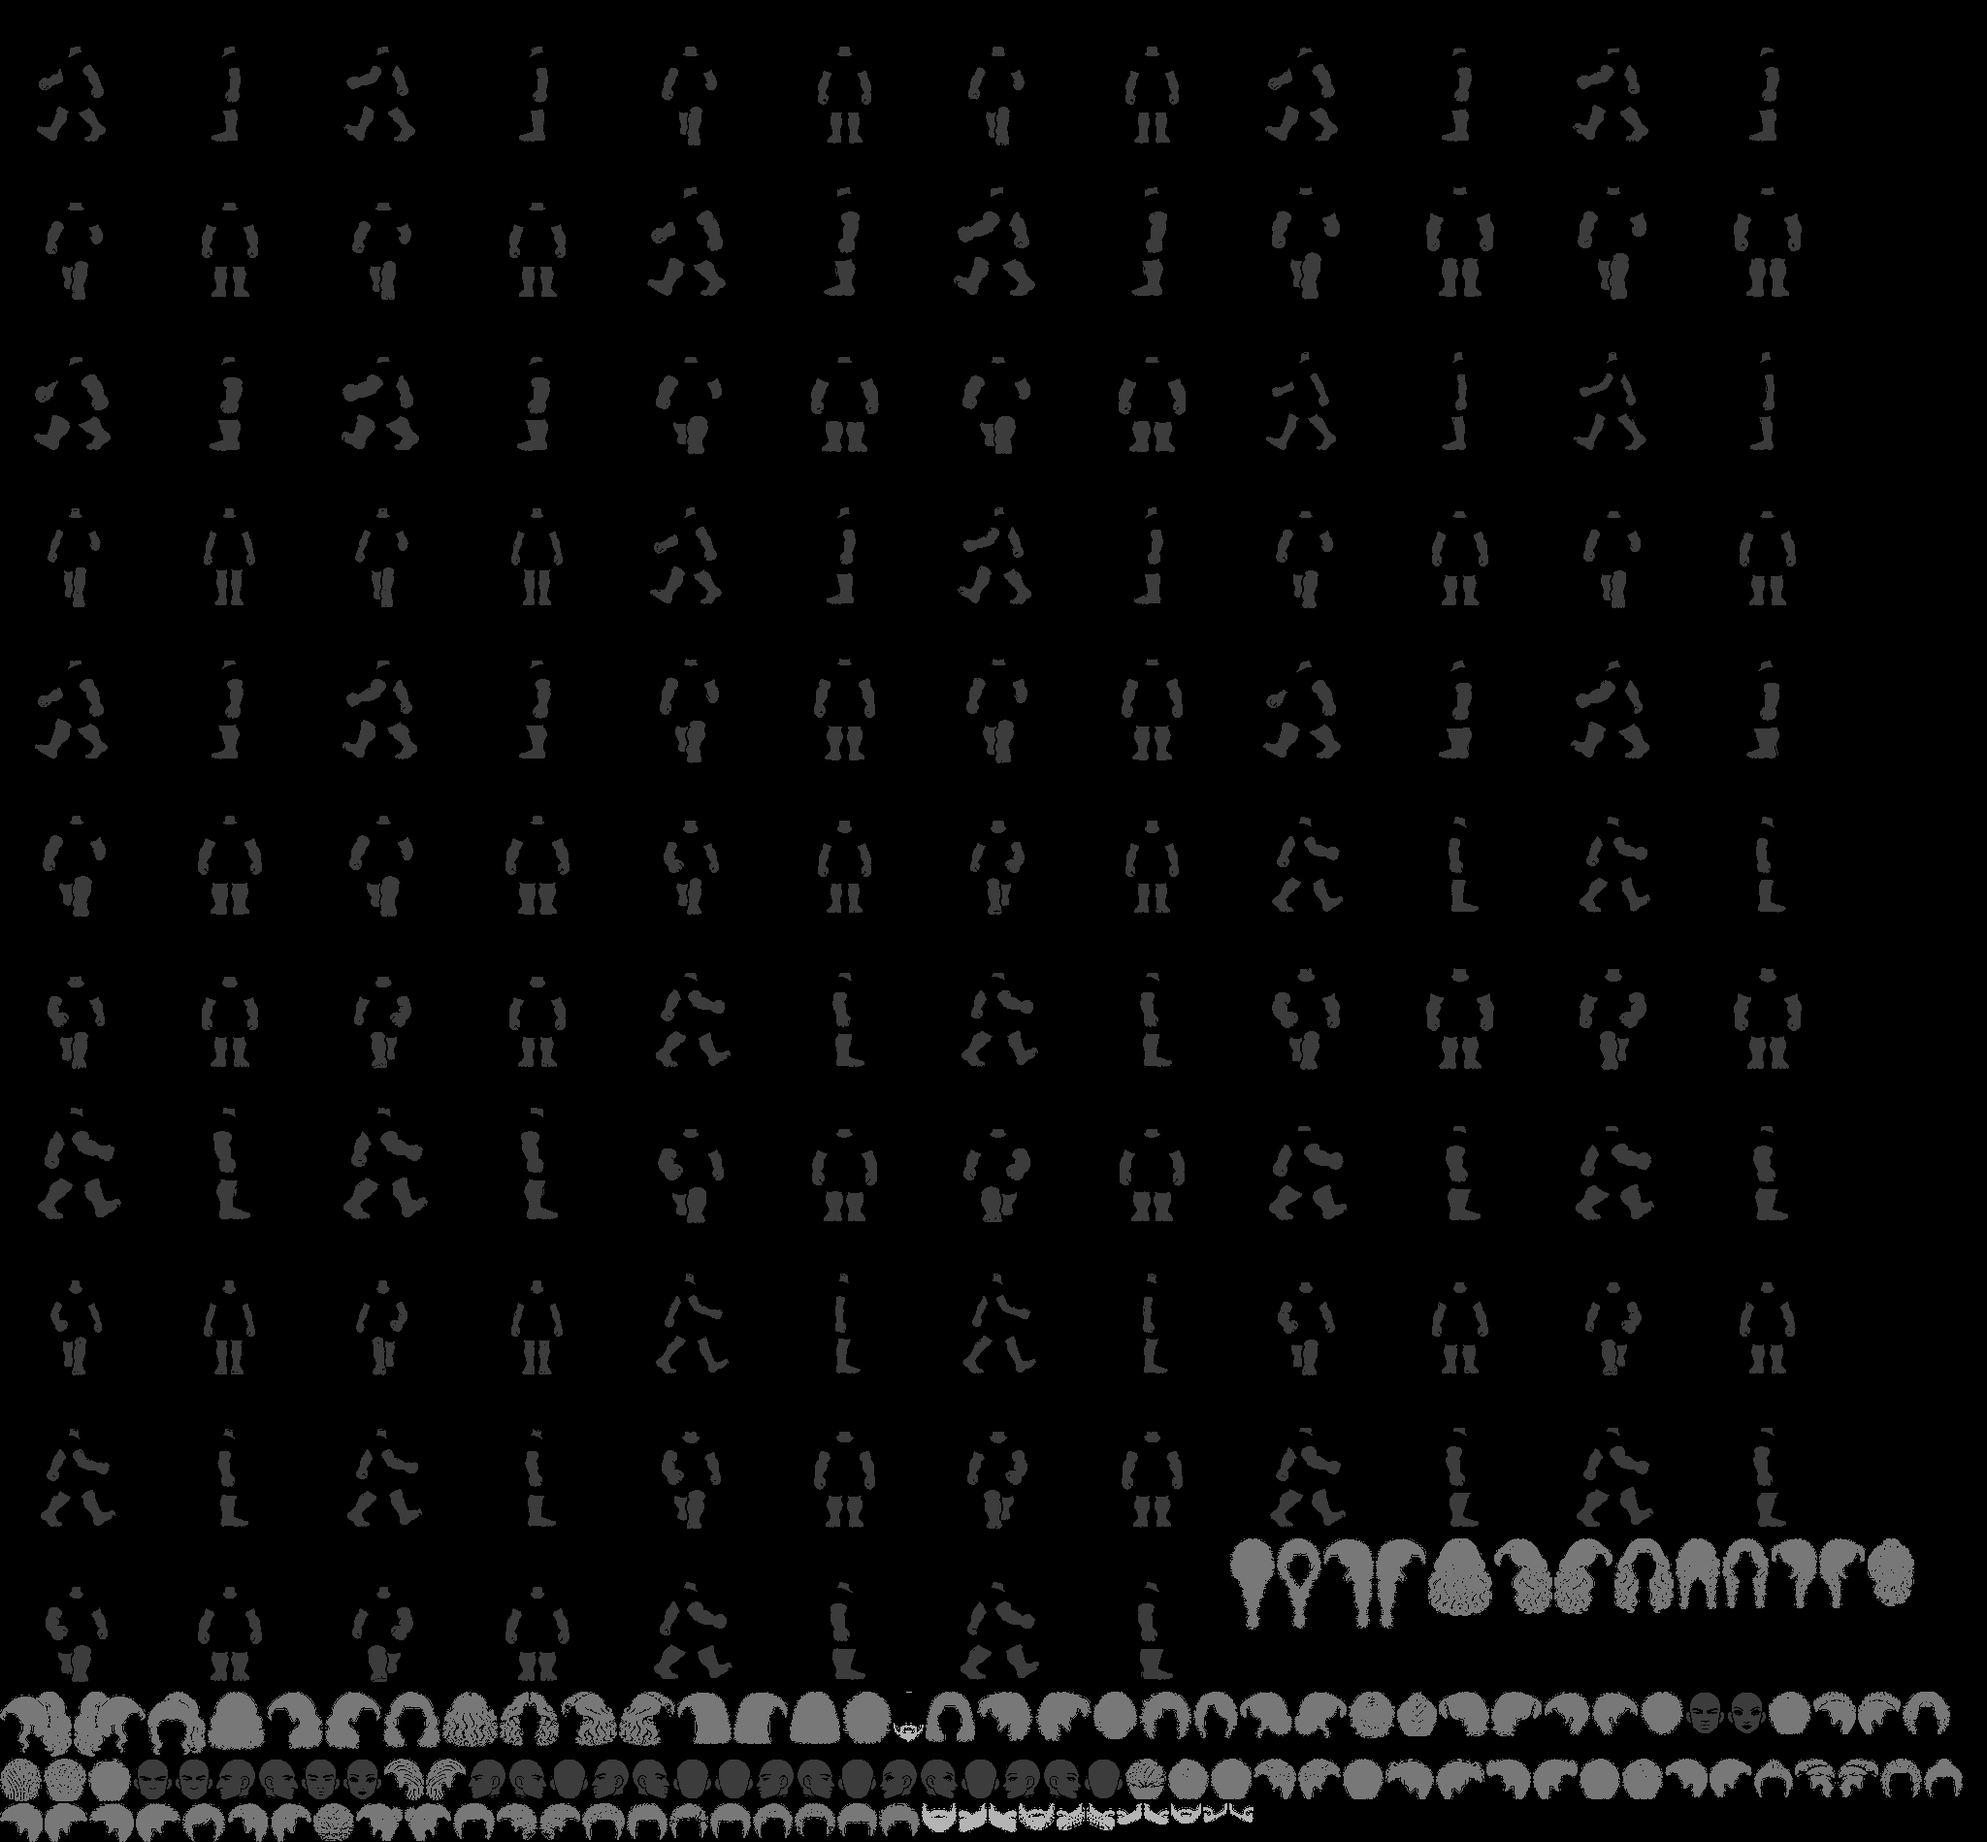
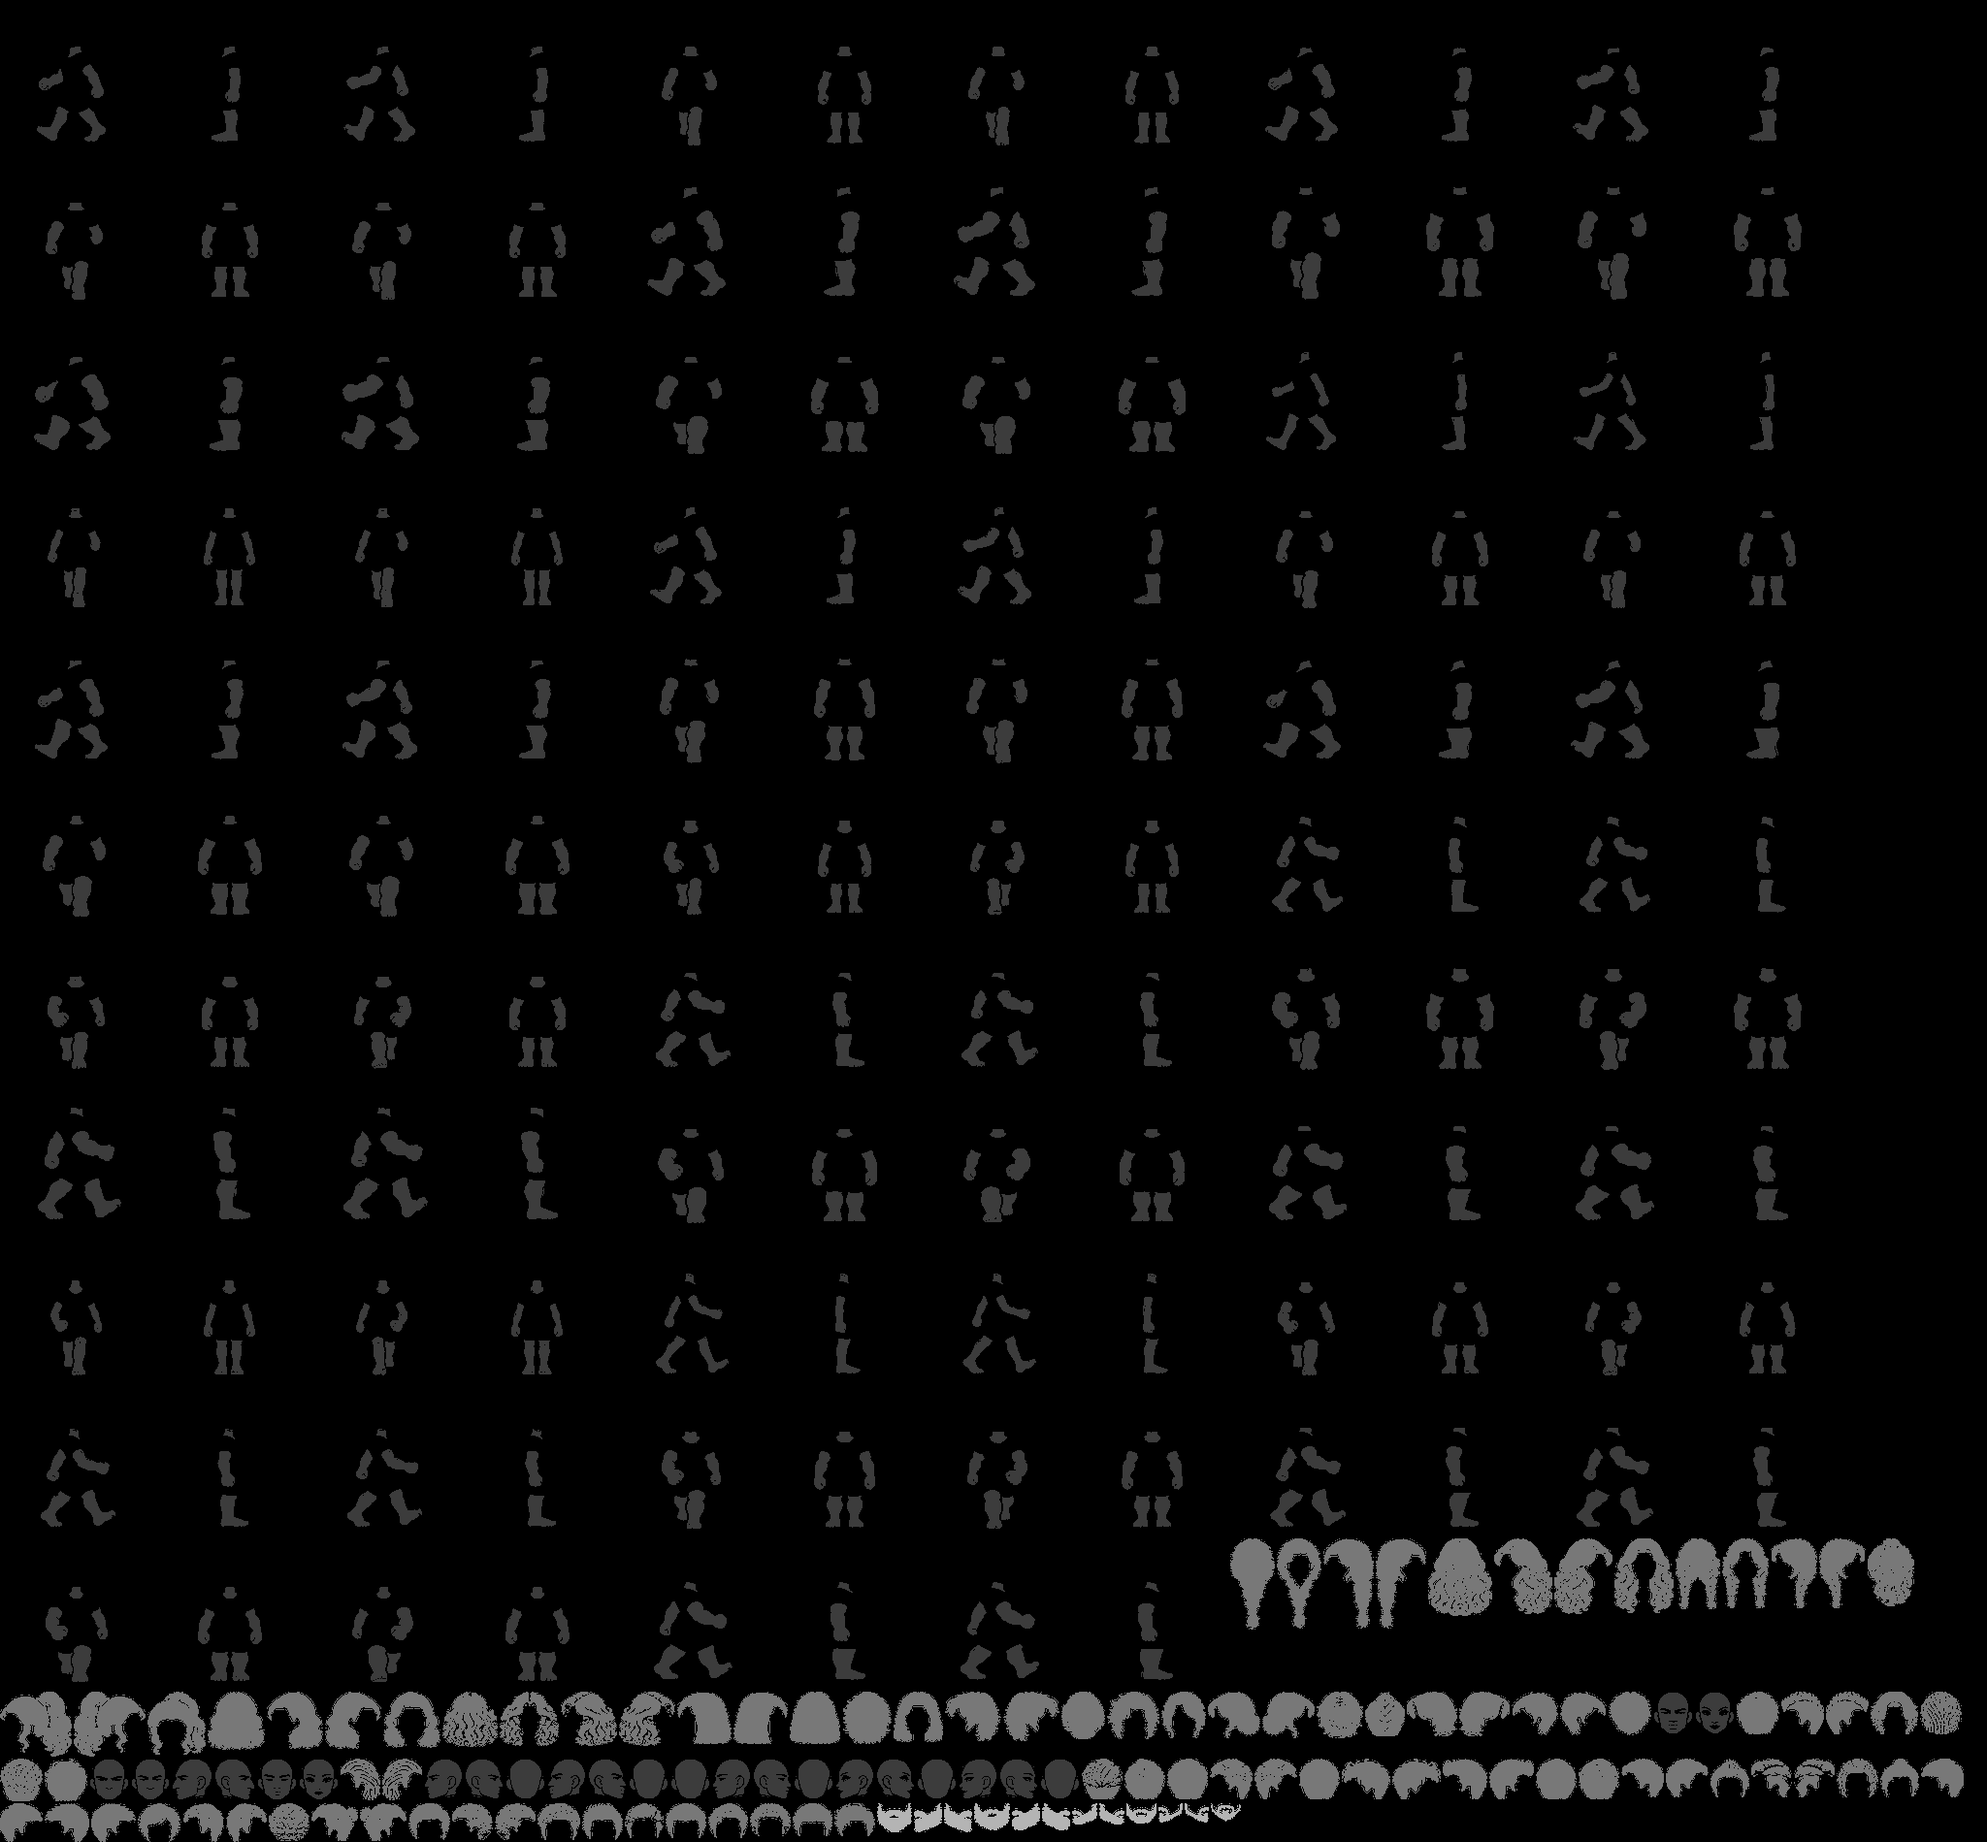
Creator: beards seated by landmarks (mouth gap on the mouth, chin on the chin) with per-face offsets; smoother beard recolour; stray specks removed
Claude-Session: https://claude.ai/code/session_01M13Pm6b1zhezL4eS9qWP4U

Changed region(s): [[0.0, 0.901, 1.0, 1.0]]

diff --git a/tools/art/creator_preview.html b/tools/art/creator_preview.html
@@ -72,6 +72,7 @@ function piece(key, cols) {
   if (cols.some(Boolean)) {
     const id = g.getImageData(0, 0, w, h), d = id.data, mats = new Uint8Array(w * h);
     for (let yy = 0; yy < h; yy++) for (let xx = 0; xx < w; xx++) mats[yy * w + xx] = Math.round(matData[(y + yy) * mat.width + x + xx] / 60);
+    const d0 = d.slice();   // untouched copy: neighbours are read from it while pixels are rewritten
     for (let m = 1; m <= 3; m++) {
       const hex = cols[m - 1]; if (!hex) continue; const [th, ts, tv] = hexHsv(hex);
       const vs = []; for (let i = 0; i < mats.length; i++) if (mats[i] === m && d[i * 4 + 3] > 0) vs.push(Math.max(d[i * 4], d[i * 4 + 1], d[i * 4 + 2]) / 255);
@@ -79,15 +80,21 @@ function piece(key, cols) {
       // map the piece's own shading onto a ramp around the chosen colour: its darkest shades to a deep shadow, its
       // middle to the colour itself, its brightest to a modest highlight (never white, so dark hair stays dark)
       const q = f => vs[Math.min(vs.length - 1, Math.floor(vs.length * f))], lo = q(.05), med = q(.5) || .5, hi = Math.max(q(.95), med + .01);
-      const vLo = tv * .38, vHi = Math.min(.97, tv * 1.4 + .1);
+      const soft = m === 3, vLo = tv * (soft ? .55 : .38), vHi = Math.min(.97, soft ? tv * 1.22 + .06 : tv * 1.4 + .1);   // beards are tight, busy texture: a gentler ramp so they don't speckle
       for (let i = 0; i < mats.length; i++) {
         if (mats[i] !== m || !d[i * 4 + 3]) continue;
-        const v = Math.max(d[i * 4], d[i * 4 + 1], d[i * 4 + 2]) / 255; if (v < (m === 1 ? .16 : .12)) continue;   // outlines stay as drawn
+        const v = Math.max(d[i * 4], d[i * 4 + 1], d[i * 4 + 2]) / 255; if (m !== 3 && v < (m === 1 ? .16 : .12)) continue;   // outlines stay as drawn
         if (m === 1) {   // skin keeps its original shading rule
           const k = v / med, nv = Math.min(1, tv * Math.pow(k, 1.05)), ns = Math.min(1, ts * (k < 1 ? 1 + (1 - k) * .45 : 1 - (k - 1) * .5)), nh = th + (k < 1 ? -(1 - k) * .03 : (k - 1) * .02);
           const [r, gg, b] = hsv2rgb(nh, Math.max(0, ns), nv); d[i * 4] = r * 255; d[i * 4 + 1] = gg * 255; d[i * 4 + 2] = b * 255; continue;
         }
-        const t = v < med ? (v - med) / Math.max(med - lo, .01) : (v - med) / (hi - med);           // -1 … 0 … +1
+        let vv = v;
+        if (soft) {   // calm the beard's speckled texture: halfway towards its neighbours' brightness
+          let sum = 0, n = 0; const px = i % w, py = (i / w) | 0;
+          for (let oy = -1; oy <= 1; oy++) for (let ox = -1; ox <= 1; ox++) { const xx = px + ox, yy = py + oy; if (xx < 0 || yy < 0 || xx >= w || yy >= h) continue; const j = yy * w + xx; if (mats[j] !== m || !d0[j * 4 + 3]) continue; sum += Math.max(d0[j * 4], d0[j * 4 + 1], d0[j * 4 + 2]) / 255; n++; }
+          if (n) vv = (v + sum / n) / 2;
+        }
+        const t = vv < med ? (vv - med) / Math.max(med - lo, .01) : (vv - med) / (hi - med);           // -1 … 0 … +1
         const nv = Math.max(0, Math.min(1, t < 0 ? tv + t * (tv - vLo) : tv + Math.min(t, 1.3) * (vHi - tv)));
         const ns = Math.max(0, Math.min(1, ts * (t < 0 ? 1 - t * .15 : 1 - Math.min(t, 1.3) * .22))), nh = th + (t < 0 ? t * .012 : t * .01);
         const [r, gg, b] = hsv2rgb(nh, ns, nv); d[i * 4] = r * 255; d[i * 4 + 1] = gg * 255; d[i * 4 + 2] = b * 255;
@@ -116,7 +123,10 @@ function draw() {
   const put = (key, cols, follow = true) => { const P = CC.pieces[key], im = piece(key, cols); if (im) g.drawImage(im, Math.round(P.at[0] + (follow ? ax + ox : 0) - bx), Math.round(P.at[1] + (follow ? ay + oy : ay) - by)); };
   put(`body${S.body}_${f}`, [skin, null, null], false);
   put(`head${S.face}_${d}`, [skin, null, null]);
-  if (S.beard >= 0 && d !== 3) put(`beard${S.beard}_${d}`, [null, null, bc]);
+  if (S.beard >= 0 && d !== 3) {   // nudged to this face's own mouth and chin
+    const [fx, fy] = (CC.beardOff || [])[S.face]?.[d] || [0, 0], P = CC.pieces[`beard${S.beard}_${d}`], im = piece(`beard${S.beard}_${d}`, [null, null, bc]);
+    if (im) g.drawImage(im, Math.round(P.at[0] + ax + ox + fx - bx), Math.round(P.at[1] + ay + oy + fy - by));
+  }
   if (S.hair >= 0) put(`hair_${CC.hair[S.hair]}_${d}`, [null, hc, null]);
 }
 // rows: ◀ value ▶  (index 0 of an "offset" row means "none")

diff --git a/tools/art/nudge_beards.py b/tools/art/nudge_beards.py
@@ -1,28 +1,38 @@
-"""Settle each beard onto the jaw of the face pieces. The beard sheet wasn't drawn on exactly the same spot as the heads,
-so each beard is slid (a few px at most) to where it sits most on the face and least off it, judged over all six faces.
-Facing right is the left placement mirrored about the head. Run after build_creator.py (it calls this itself)."""
+"""Seat each beard on the face by landmarks, not by guesswork.
+Front: the beard's mouth gap is centred on the face's mouth. Side (facing left): the beard's chin tip sits just under
+and in front of the face's chin. Facing right is the left placement mirrored about the head. The beard pieces are
+placed for face 1; the other faces' mouths and chins sit a pixel or two differently, so cc.json gets a small offset
+per face (beardOff[face][dir]) that the creator adds. Run after build_creator.py (it calls this itself)."""
 import json, numpy as np
 from PIL import Image
+from scipy import ndimage as ndi
 J = 'src/creator/cc.json'
-c = json.load(open(J)); A = np.asarray(Image.open('src/creator/cc_atlas.webp').convert('RGBA'))[..., 3] > 127
-N = 220
-def mask(k):
-    P = c['pieces'][k]; x, y, w, h = P['f']; m = np.zeros((N, N), bool); ax, ay = round(P['at'][0]), round(P['at'][1])
-    m[ay + 30:ay + 30 + h, ax + 30:ax + 30 + w] = A[y:y + h, x:x + w]; return m
+c = json.load(open(J)); A = np.asarray(Image.open('src/creator/cc_atlas.webp').convert('RGBA'))
+def crop(k):
+    x, y, w, h = c['pieces'][k]['f']; return A[y:y + h, x:x + w]
+def mouth(f):     # front view: centre of the face, at the darkest row of the lower face's middle
+    a = crop(f'head{f}_0'); al = a[..., 3] > 127; v = a[..., :3].max(-1) / 255.; H, W = al.shape; cs = slice(int(W * .38), int(W * .62))
+    rows = range(int(H * .72), int(H * .92)); y = min(rows, key=lambda r: v[r, cs][al[r, cs]].mean() if al[r, cs].any() else 9)
+    at = c['pieces'][f'head{f}_0']['at']; return at[0] + W / 2, at[1] + y + .5
+def chin(f, d):   # side views: the front end of the face's lowest outline row (left end facing left, right end facing right)
+    a = crop(f'head{f}_{d}'); al = a[..., 3] > 127; ys = np.nonzero(al.any(1))[0]; y = ys[-1]; xs = np.nonzero(al[y])[0]
+    at = c['pieces'][f'head{f}_{d}']['at']; return at[0] + (xs[0] if d == 1 else xs[-1] + 1), at[1] + y
+def hole(k):      # the mouth gap in a front beard
+    al = crop(k)[..., 3] > 127; h = ndi.binary_fill_holes(al) & ~al; lb, n = ndi.label(h)
+    sz = ndi.sum(h, lb, range(1, n + 1)); ys, xs = np.nonzero(lb == int(np.argmax(sz)) + 1); return xs.mean() + .5, ys.mean() + .5
+def btip(k, d):   # a side beard's chin tip: front end of its lowest rows
+    al = crop(k)[..., 3] > 127; ys = np.nonzero(al.any(1))[0]; xs = np.nonzero(al[ys[-1] - 2:ys[-1] + 1].any(0))[0]
+    return (xs[0] if d == 1 else xs[-1] + 1), ys[-1]
+mx, my = mouth(0); C = {d: chin(0, d) for d in (1, 2)}
 for b in range(c['beards']):
-    for d in (0, 1):
-        k = f'beard{b}_{d}'; bm = mask(k); best = None
-        heads = [mask(f'head{f}_{d}') for f in range(c['heads'])]
-        for dy in range(-4, 5):
-            for dx in range(-4, 5):
-                s = np.roll(np.roll(bm, dy, 0), dx, 1); sc = 0
-                for hm in heads:
-                    ys = np.nonzero(hm.any(1))[0]; eyes = np.zeros_like(hm); eyes[:ys[0] + int((ys[-1] - ys[0]) * .45)] = True
-                    sc += (s & hm).sum() - 1.5 * (s & ~hm).sum() - 6 * (s & eyes).sum()
-                sc -= 3 * (abs(dx) + abs(dy))
-                if best is None or sc > best[0]: best = (sc, dx, dy)
-        _, dx, dy = best; P = c['pieces'][k]; P['at'] = [P['at'][0] + dx, P['at'][1] + dy]; print(k, 'moved', dx, dy)
-    # facing right: mirror the left placement about the head
-    hl, hr = c['pieces']['head0_1'], c['pieces']['head0_2']; L = c['pieces'][f'beard{b}_1']; R = c['pieces'][f'beard{b}_2']
-    R['at'] = [hr['at'][0] + hl['f'][2] - (L['at'][0] - hl['at'][0]) - L['f'][2], hr['at'][1] + (L['at'][1] - hl['at'][1])]
+    P = c['pieces'][f'beard{b}_0']; hx, hy = hole(f'beard{b}_0'); P['at'] = [round(mx - hx), round(my - hy)]
+    for d, sx in ((1, -1), (2, 1)):   # the beard reaches a pixel past the chin and two below it
+        P = c['pieces'][f'beard{b}_{d}']; tx, ty = btip(f'beard{b}_{d}', d); P['at'] = [round(C[d][0] + sx - tx), round(C[d][1] + 2 - ty)]
+    print('beard', b, [c['pieces'][f'beard{b}_{d}']['at'] for d in range(3)])
+offs = []
+for f in range(c['heads']):
+    m = mouth(f); o = [[round(m[0] - mx), round(m[1] - my)]]
+    for d in (1, 2): ch = chin(f, d); o.append([round(ch[0] - C[d][0]), round(ch[1] - C[d][1])])
+    offs.append(o)
+c['beardOff'] = offs; print('per-face', offs)
 json.dump(c, open(J, 'w'), separators=(',', ':'))

diff --git a/tools/art/build_creator.py b/tools/art/build_creator.py
@@ -41,7 +41,9 @@ def mat_for(a, kind):
         if n: sz = ndi.sum(sk, lb, range(1, n + 1)); sk = np.isin(lb, [j + 1 for j, z in enumerate(sz) if z >= 25])
         m[sk] = 1
     elif kind in ('hair', 'beard'):
-        h, s, v = hsv_img(a); m[al & (v > .06)] = 2 if kind == 'hair' else 3
+        h, s, v = hsv_img(a)
+        if kind == 'hair': m[al & (v > .06)] = 2
+        else: m[ndi.binary_erosion(al) | (al & (v > .06))] = 3   # beards: every inner pixel recolours, even the near-black texture; the outline stays
     return m
 def cells(img, rows, cols):
     H, W = img.shape[:2]; return [[img[r * H // rows:(r + 1) * H // rows, c * W // cols:(c + 1) * W // cols] for c in range(cols)] for r in range(rows)]
@@ -139,6 +141,9 @@ for i in range(4):
     for col in range(2):
         raw = Bs[i][col].copy(); rr, gg, bb = [raw[..., k].astype(int) for k in range(3)]
         raw[(rr > 140) & (rr > gg + 60) & (rr > bb + 40), 3] = 0          # the lips drawn in the mouth gap: the face shows through
+        m0 = raw[..., 3] > 0; lb0, n0 = ndi.label(m0)
+        if n0 > 1:   # stray specks (a dot floated above the goatee): keep only parts at least 8% the size of the beard
+            sz0 = ndi.sum(m0, lb0, range(1, n0 + 1)); raw[~np.isin(lb0, [j + 1 for j, z in enumerate(sz0) if z >= .08 * sz0.max()]), 3] = 0
         piece, (px, py) = biggest(raw, min_px=20, fill_holes=0)
         h = heads[0][col]; s = h['s']
         bv[col] = dict(piece=piece, s=s, x=round(h['x'] + (px - h['src'][0]) * s), y=round(h['y'] + (py - h['src'][1]) * s))
